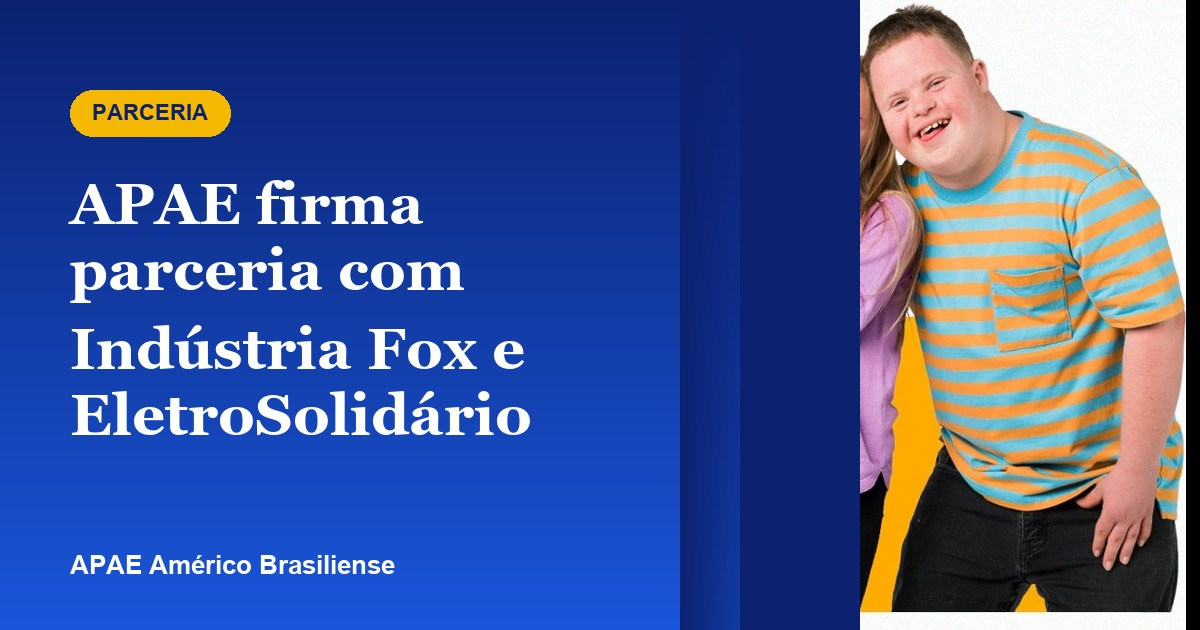
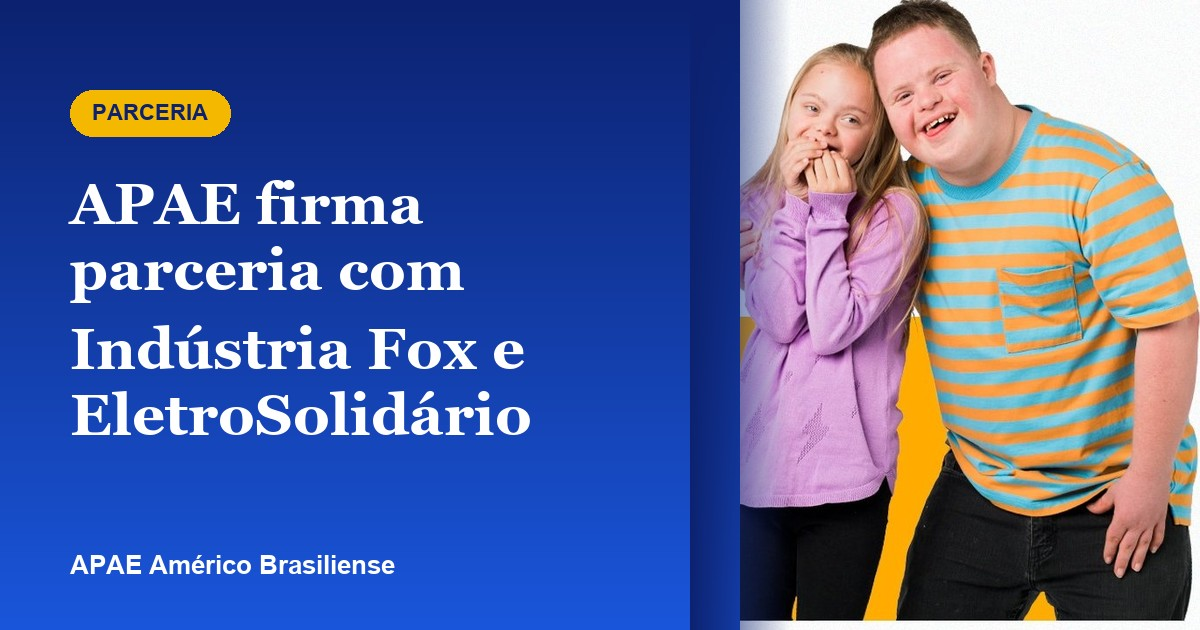
Ajusta layout da notícia: imagem flutuante em vez de coluna fixa
- Substitui o grid de 2 colunas fixas por um layout tipo revista:
  a imagem de capa flutua à esquerda (float), o texto contorna
  naturalmente ao lado e volta à largura total assim que passa da
  altura da imagem — sem position:sticky
- Move o widget de compartilhar pra baixo do parágrafo de abertura
  (antes ficava embaixo da imagem) e adiciona botão do Instagram
  (abre o post original, já que não existe link de compartilhamento
  direto para conteúdo externo no Instagram)
- Reorganiza a seção "Como funciona a doação": a foto do coletor
  fica ao lado dos dois cards (pode/não pode doar), empilhados,
  em vez de tudo em sequência vertical
- Corrige a OG image: o cálculo de escala anterior deixava a foto
  mais estreita que o painel, cortando/deixando uma barra em branco
  na borda — agora usa escala "cover" correta, sem cortes

Changed region(s): [[0.6167, 0.0, 1.0, 1.0], [0.555, 0.2413, 0.5858, 1.0]]

diff --git a/noticia-parceria-eletrosolidario.html b/noticia-parceria-eletrosolidario.html
@@ -44,7 +44,7 @@
   <script src="https://cdn.tailwindcss.com"></script>
 
   <!-- Styles -->
-  <link rel="stylesheet" href="css/style.css?v=20260829">
+  <link rel="stylesheet" href="css/style.css?v=20260830">
 
   <!-- Schema JSON-LD: BreadcrumbList + NewsArticle -->
   <script type="application/ld+json">
@@ -340,11 +340,22 @@
 
         <div class="article-layout">
 
-          <!-- EN: Media column — cover image + share buttons -->
+          <!-- EN: Floated cover image — text wraps beside it, then continues full width -->
           <aside class="article-media">
             <img src="images/noticias/parceria-industriafox-eletrosolidario/capa.jpg"
                  alt="Jovens atendidos pela APAE Américo Brasiliense, parceira do programa EletroSolidário"
                  width="525" height="740" loading="eager" decoding="async" class="article-cover">
+          </aside>
+
+          <!-- EN: Content — editorial text, wraps around the floated image above -->
+          <div class="article-content">
+
+            <p class="article-lead">
+              A partir de 3 de agosto de 2026, a APAE Américo Brasiliense passou a integrar o
+              <strong>EletroSolidário</strong>, programa desenvolvido em parceria com a
+              <strong>Indústria Fox</strong> que transforma eletrodomésticos e eletroeletrônicos
+              fora de uso em recursos financeiros para a instituição.
+            </p>
 
             <div class="article-share">
               <span class="article-share__label">Compartilhar:</span>
@@ -358,6 +369,11 @@
                 <svg width="16" height="16" viewBox="0 0 24 24" fill="currentColor" aria-hidden="true"><path d="M22 12a10 10 0 1 0-11.56 9.88v-6.99H7.9V12h2.54V9.8c0-2.5 1.49-3.89 3.78-3.89 1.1 0 2.24.2 2.24.2v2.46h-1.26c-1.24 0-1.63.77-1.63 1.56V12h2.78l-.44 2.89h-2.34v6.99A10 10 0 0 0 22 12z"/></svg>
                 Facebook
               </a>
+              <a href="https://www.instagram.com/p/Dbk2vFCDlcx/" target="_blank" rel="noopener"
+                 class="article-share__btn article-share__btn--instagram" aria-label="Ver no Instagram">
+                <svg width="16" height="16" viewBox="0 0 24 24" aria-hidden="true"><rect x="2" y="2" width="20" height="20" rx="5" ry="5" fill="url(#ig-gradient)"/><circle cx="12" cy="12" r="4" fill="none" stroke="white" stroke-width="1.5"/><circle cx="17.5" cy="6.5" r="1" fill="white"/></svg>
+                Instagram
+              </a>
               <button type="button" class="article-share__btn article-share__btn--copy" data-copy-link
                       data-copy-value="https://apaeamericobrasiliense.com.br/noticia-parceria-eletrosolidario"
                       aria-label="Copiar link da notícia">
@@ -365,17 +381,6 @@
                 <span class="article-share__btn-text">Copiar link</span>
               </button>
             </div>
-          </aside>
-
-          <!-- EN: Content column — editorial text -->
-          <div class="article-content">
-
-            <p class="article-lead">
-              A partir de 3 de agosto de 2026, a APAE Américo Brasiliense passou a integrar o
-              <strong>EletroSolidário</strong>, programa desenvolvido em parceria com a
-              <strong>Indústria Fox</strong> que transforma eletrodomésticos e eletroeletrônicos
-              fora de uso em recursos financeiros para a instituição.
-            </p>
 
             <h2 class="article-h2">O que é o EletroSolidário</h2>
             <p class="article-text">
@@ -393,27 +398,29 @@
               diretamente para os atendimentos da APAE.
             </p>
 
-            <img src="images/noticias/parceria-industriafox-eletrosolidario/coletor.jpg"
-                 alt="Coletor do EletroSolidário para descarte de eletroeletrônicos"
-                 width="480" height="600" loading="lazy" decoding="async" class="article-inline-img">
+            <div class="article-doacao-row">
+              <img src="images/noticias/parceria-industriafox-eletrosolidario/coletor.jpg"
+                   alt="Coletor do EletroSolidário para descarte de eletroeletrônicos"
+                   width="480" height="600" loading="lazy" decoding="async" class="article-inline-img">
 
-            <div class="article-check-grid">
-              <div class="article-check-card article-check-card--yes">
-                <h3>✓ O que pode ser doado</h3>
-                <p>
-                  Micro-ondas, forno, fogão, máquina de lavar, geladeira, televisão, rádio,
-                  home theater, DVD player, celular, notebook, impressora, scanner,
-                  liquidificador, batedeira, sanduicheira, torradeira, mixer, processador de
-                  alimentos, secador de cabelo, chapinha, barbeador elétrico, panela elétrica,
-                  fritadeira, rádio relógio, brinquedos eletrônicos, tablet, monitor e
-                  videocassete.
-                </p>
-              </div>
-              <div class="article-check-card article-check-card--no">
-                <h3>✕ O que não pode ser doado</h3>
-                <p>
-                  Lâmpadas, pilhas, baterias e produtos que não sejam de uso doméstico.
-                </p>
+              <div class="article-check-grid">
+                <div class="article-check-card article-check-card--yes">
+                  <h3>✓ O que pode ser doado</h3>
+                  <p>
+                    Micro-ondas, forno, fogão, máquina de lavar, geladeira, televisão, rádio,
+                    home theater, DVD player, celular, notebook, impressora, scanner,
+                    liquidificador, batedeira, sanduicheira, torradeira, mixer, processador de
+                    alimentos, secador de cabelo, chapinha, barbeador elétrico, panela elétrica,
+                    fritadeira, rádio relógio, brinquedos eletrônicos, tablet, monitor e
+                    videocassete.
+                  </p>
+                </div>
+                <div class="article-check-card article-check-card--no">
+                  <h3>✕ O que não pode ser doado</h3>
+                  <p>
+                    Lâmpadas, pilhas, baterias e produtos que não sejam de uso doméstico.
+                  </p>
+                </div>
               </div>
             </div>
 
@@ -620,7 +627,7 @@
     </svg>
   </a>
 
-  <script src="js/main.js?v=20260829" defer></script>
+  <script src="js/main.js?v=20260830" defer></script>
   <script async src="//www.instagram.com/embed.js"></script>
 
   <!-- EN: VLibras accessibility widget - mandatory for NGOs (Brazilian gov) -->

diff --git a/css/style.css b/css/style.css
@@ -6918,20 +6918,21 @@ body {
 }
 .article-back:hover { text-decoration: underline; }
 
-/* Horizontal layout: media column left, content column right — standard for all news articles */
+/* Magazine layout: image floats left, text wraps beside it, then continues
+   full width once past the image — standard for all news articles */
 .article-layout { display: block; }
 
 @media (min-width: 900px) {
-  .article-layout {
-    display: grid;
-    grid-template-columns: 400px 1fr;
-    gap: 48px;
-    align-items: start;
+  .article-media {
+    float: left;
+    width: 400px;
+    margin-right: 48px;
   }
-  .article-media { position: sticky; top: 96px; }
 }
 
-.article-content { max-width: 700px; }
+.article-content { max-width: 720px; }
+
+.article-layout::after { content: ''; display: table; clear: both; }
 
 .article-cover {
   display: block;
@@ -6983,6 +6984,7 @@ body {
 }
 .article-share__btn--whatsapp:hover { border-color: #25D366; background: #F0FDF4; color: #16803C; }
 .article-share__btn--facebook:hover { border-color: #1877F2; background: #EFF6FF; color: #1877F2; }
+.article-share__btn--instagram:hover { border-color: #d6249f; background: #FDF2F8; color: #d6249f; }
 .article-share__btn--copy:hover { border-color: var(--blue-primary); background: var(--blue-light); }
 .article-share__btn--copied { border-color: #16A34A !important; background: #F0FDF4 !important; color: #16A34A !important; }
 
@@ -7029,6 +7031,28 @@ body {
 }
 @media (min-width: 640px) {
   .article-check-grid { grid-template-columns: repeat(2, 1fr); }
+}
+
+/* Doação row — collector photo beside the two check cards (stacked) */
+.article-doacao-row {
+  display: flex;
+  flex-wrap: wrap;
+  align-items: flex-start;
+  gap: 20px;
+  margin: 20px 0 28px;
+}
+.article-doacao-row .article-inline-img {
+  width: 220px;
+  max-width: 220px;
+  flex-shrink: 0;
+  margin: 0;
+}
+.article-doacao-row .article-check-grid {
+  display: flex;
+  flex-direction: column;
+  flex: 1;
+  min-width: 220px;
+  margin: 0;
 }
 
 .article-check-card {

diff --git a/transparencia.html b/transparencia.html
@@ -31,7 +31,7 @@
   <link href="https://fonts.googleapis.com/css2?family=Playfair+Display:wght@700;800&family=Inter:wght@400;500;600&display=swap" rel="stylesheet">
 
   <script src="https://cdn.tailwindcss.com"></script>
-  <link rel="stylesheet" href="css/style.css?v=20260829">
+  <link rel="stylesheet" href="css/style.css?v=20260830">
 
   <!-- Schema JSON-LD: BreadcrumbList + NGO -->
   <script type="application/ld+json">
@@ -674,7 +674,7 @@
     <svg width="28" height="28" viewBox="0 0 24 24" fill="white" aria-hidden="true"><path d="M17.472 14.382c-.297-.149-1.758-.867-2.03-.967-.273-.099-.471-.148-.67.15-.197.297-.767.966-.94 1.164-.173.199-.347.223-.644.075-.297-.15-1.255-.463-2.39-1.475-.883-.788-1.48-1.761-1.653-2.059-.173-.297-.018-.458.13-.606.134-.133.298-.347.446-.52.149-.174.198-.298.298-.497.099-.198.05-.371-.025-.52-.075-.149-.669-1.612-.916-2.207-.242-.579-.487-.5-.669-.51-.173-.008-.371-.01-.57-.01-.198 0-.52.074-.792.372-.272.297-1.04 1.016-1.04 2.479 0 1.462 1.065 2.875 1.213 3.074.149.198 2.096 3.2 5.077 4.487.709.306 1.262.489 1.694.625.712.227 1.36.195 1.871.118.571-.085 1.758-.719 2.006-1.413.248-.694.248-1.289.173-1.413-.074-.124-.272-.198-.57-.347m-5.421 7.403h-.004a9.87 9.87 0 0 1-5.031-1.378l-.361-.214-3.741.982.998-3.648-.235-.374a9.86 9.86 0 0 1-1.51-5.26c.001-5.45 4.436-9.884 9.888-9.884 2.64 0 5.122 1.03 6.988 2.898a9.825 9.825 0 0 1 2.893 6.994c-.003 5.45-4.437 9.884-9.885 9.884m8.413-18.297A11.815 11.815 0 0 0 12.05 0C5.495 0 .16 5.335.157 11.892c0 2.096.547 4.142 1.588 5.945L.057 24l6.305-1.654a11.882 11.882 0 0 0 5.683 1.448h.005c6.554 0 11.89-5.335 11.893-11.893a11.821 11.821 0 0 0-3.48-8.413z"/></svg>
   </a>
 
-  <script src="js/main.js?v=20260829" defer></script>
+  <script src="js/main.js?v=20260830" defer></script>
 
 
   <!-- EN: VLibras accessibility widget - mandatory for NGOs (Brazilian gov) -->

diff --git a/doe-agora.html b/doe-agora.html
@@ -31,7 +31,7 @@
   <link href="https://fonts.googleapis.com/css2?family=Playfair+Display:wght@700;800&family=Inter:wght@400;500;600&display=swap" rel="stylesheet">
 
   <script src="https://cdn.tailwindcss.com"></script>
-  <link rel="stylesheet" href="css/style.css?v=20260829">
+  <link rel="stylesheet" href="css/style.css?v=20260830">
 
   <script type="application/ld+json">
   {
@@ -622,7 +622,7 @@
     <svg width="28" height="28" viewBox="0 0 24 24" fill="white" aria-hidden="true"><path d="M17.472 14.382c-.297-.149-1.758-.867-2.03-.967-.273-.099-.471-.148-.67.15-.197.297-.767.966-.94 1.164-.173.199-.347.223-.644.075-.297-.15-1.255-.463-2.39-1.475-.883-.788-1.48-1.761-1.653-2.059-.173-.297-.018-.458.13-.606.134-.133.298-.347.446-.52.149-.174.198-.298.298-.497.099-.198.05-.371-.025-.52-.075-.149-.669-1.612-.916-2.207-.242-.579-.487-.5-.669-.51-.173-.008-.371-.01-.57-.01-.198 0-.52.074-.792.372-.272.297-1.04 1.016-1.04 2.479 0 1.462 1.065 2.875 1.213 3.074.149.198 2.096 3.2 5.077 4.487.709.306 1.262.489 1.694.625.712.227 1.36.195 1.871.118.571-.085 1.758-.719 2.006-1.413.248-.694.248-1.289.173-1.413-.074-.124-.272-.198-.57-.347m-5.421 7.403h-.004a9.87 9.87 0 0 1-5.031-1.378l-.361-.214-3.741.982.998-3.648-.235-.374a9.86 9.86 0 0 1-1.51-5.26c.001-5.45 4.436-9.884 9.888-9.884 2.64 0 5.122 1.03 6.988 2.898a9.825 9.825 0 0 1 2.893 6.994c-.003 5.45-4.437 9.884-9.885 9.884m8.413-18.297A11.815 11.815 0 0 0 12.05 0C5.495 0 .16 5.335.157 11.892c0 2.096.547 4.142 1.588 5.945L.057 24l6.305-1.654a11.882 11.882 0 0 0 5.683 1.448h.005c6.554 0 11.89-5.335 11.893-11.893a11.821 11.821 0 0 0-3.48-8.413z"/></svg>
   </a>
 
-  <script src="js/main.js?v=20260829" defer></script>
+  <script src="js/main.js?v=20260830" defer></script>
   <script>
     (function () {
       var btn = document.getElementById('btn-copiar-pix');

diff --git a/fotos-videos.html b/fotos-videos.html
@@ -39,7 +39,7 @@
   <script src="https://cdn.tailwindcss.com"></script>
 
   <!-- Styles -->
-  <link rel="stylesheet" href="css/style.css?v=20260829">
+  <link rel="stylesheet" href="css/style.css?v=20260830">
 
   <!-- Schema JSON-LD: BreadcrumbList -->
   <script type="application/ld+json">
@@ -605,7 +605,7 @@
     </svg>
   </a>
 
-  <script src="js/main.js?v=20260829" defer></script>
+  <script src="js/main.js?v=20260830" defer></script>
   <script async src="//www.instagram.com/embed.js"></script>
 
   <!-- EN: VLibras accessibility widget - mandatory for NGOs (Brazilian gov) -->

diff --git a/contato.html b/contato.html
@@ -39,7 +39,7 @@
   <script src="https://cdn.tailwindcss.com"></script>
 
   <!-- Styles -->
-  <link rel="stylesheet" href="css/style.css?v=20260829">
+  <link rel="stylesheet" href="css/style.css?v=20260830">
 
   <!-- Schema JSON-LD: BreadcrumbList + ContactPage + NGO -->
   <script type="application/ld+json">
@@ -646,7 +646,7 @@
     </svg>
   </a>
 
-  <script src="js/main.js?v=20260829" defer></script>
+  <script src="js/main.js?v=20260830" defer></script>
 
   <!-- EN: VLibras accessibility widget - mandatory for NGOs (Brazilian gov) -->
   <div vw class="enabled">

diff --git a/servicos.html b/servicos.html
@@ -39,7 +39,7 @@
   <script src="https://cdn.tailwindcss.com"></script>
 
   <!-- Style -->
-  <link rel="stylesheet" href="css/style.css?v=20260829">
+  <link rel="stylesheet" href="css/style.css?v=20260830">
 
   <!-- Schema JSON-LD: BreadcrumbList + NGO + Serviços -->
   <script type="application/ld+json">
@@ -678,7 +678,7 @@
     </svg>
   </a>
 
-  <script src="js/main.js?v=20260829" defer></script>
+  <script src="js/main.js?v=20260830" defer></script>
 
   <!-- EN: VLibras accessibility widget - mandatory for NGOs (Brazilian gov) -->
   <div vw class="enabled">

diff --git a/precisa-de-ajuda.html b/precisa-de-ajuda.html
@@ -39,7 +39,7 @@
   <script src="https://cdn.tailwindcss.com"></script>
 
   <!-- Style -->
-  <link rel="stylesheet" href="css/style.css?v=20260829">
+  <link rel="stylesheet" href="css/style.css?v=20260830">
 
   <!-- Schema JSON-LD: BreadcrumbList + NGO + FAQPage -->
   <script type="application/ld+json">
@@ -734,7 +734,7 @@
     </svg>
   </a>
 
-  <script src="js/main.js?v=20260829" defer></script>
+  <script src="js/main.js?v=20260830" defer></script>
 
   <!-- EN: VLibras accessibility widget - mandatory for NGOs (Brazilian gov) -->
   <div vw class="enabled">

diff --git a/juntese-a-nos.html b/juntese-a-nos.html
@@ -39,7 +39,7 @@
   <script src="https://cdn.tailwindcss.com"></script>
 
   <!-- Styles -->
-  <link rel="stylesheet" href="css/style.css?v=20260829">
+  <link rel="stylesheet" href="css/style.css?v=20260830">
 
   <!-- Schema JSON-LD: BreadcrumbList + NGO -->
   <script type="application/ld+json">
@@ -595,7 +595,7 @@
     </svg>
   </a>
 
-  <script src="js/main.js?v=20260829" defer></script>
+  <script src="js/main.js?v=20260830" defer></script>
 
   <!-- EN: VLibras accessibility widget - mandatory for NGOs (Brazilian gov) -->
   <div vw class="enabled">

diff --git a/lgpd.html b/lgpd.html
@@ -39,7 +39,7 @@
   <script src="https://cdn.tailwindcss.com"></script>
 
   <!-- Styles -->
-  <link rel="stylesheet" href="css/style.css?v=20260829">
+  <link rel="stylesheet" href="css/style.css?v=20260830">
 
   <!-- Schema JSON-LD: BreadcrumbList -->
   <script type="application/ld+json">
@@ -556,7 +556,7 @@
     </svg>
   </a>
 
-  <script src="js/main.js?v=20260829" defer></script>
+  <script src="js/main.js?v=20260830" defer></script>
 
   <!-- EN: VLibras accessibility widget - mandatory for NGOs (Brazilian gov) -->
   <div vw class="enabled">

diff --git a/noticias.html b/noticias.html
@@ -39,7 +39,7 @@
   <script src="https://cdn.tailwindcss.com"></script>
 
   <!-- Styles -->
-  <link rel="stylesheet" href="css/style.css?v=20260829">
+  <link rel="stylesheet" href="css/style.css?v=20260830">
 
   <!-- Schema JSON-LD: BreadcrumbList -->
   <script type="application/ld+json">
@@ -569,7 +569,7 @@
     </svg>
   </a>
 
-  <script src="js/main.js?v=20260829" defer></script>
+  <script src="js/main.js?v=20260830" defer></script>
 
   <!-- EN: VLibras accessibility widget - mandatory for NGOs (Brazilian gov) -->
   <div vw class="enabled">

diff --git a/privacidade.html b/privacidade.html
@@ -39,7 +39,7 @@
   <script src="https://cdn.tailwindcss.com"></script>
 
   <!-- Styles -->
-  <link rel="stylesheet" href="css/style.css?v=20260829">
+  <link rel="stylesheet" href="css/style.css?v=20260830">
 
   <!-- Schema JSON-LD: BreadcrumbList -->
   <script type="application/ld+json">
@@ -580,7 +580,7 @@
     </svg>
   </a>
 
-  <script src="js/main.js?v=20260829" defer></script>
+  <script src="js/main.js?v=20260830" defer></script>
 
   <!-- EN: VLibras accessibility widget - mandatory for NGOs (Brazilian gov) -->
   <div vw class="enabled">
